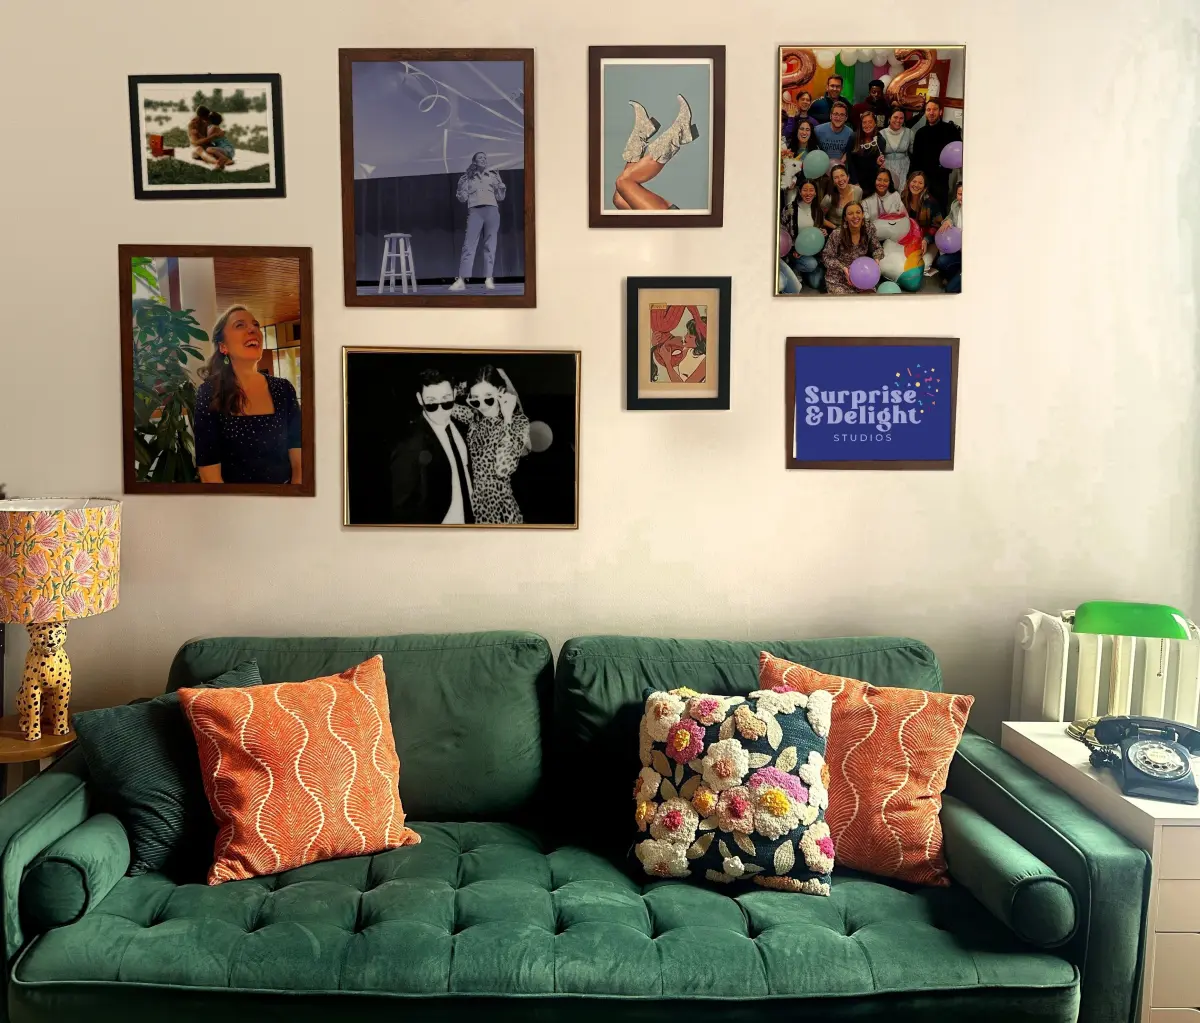
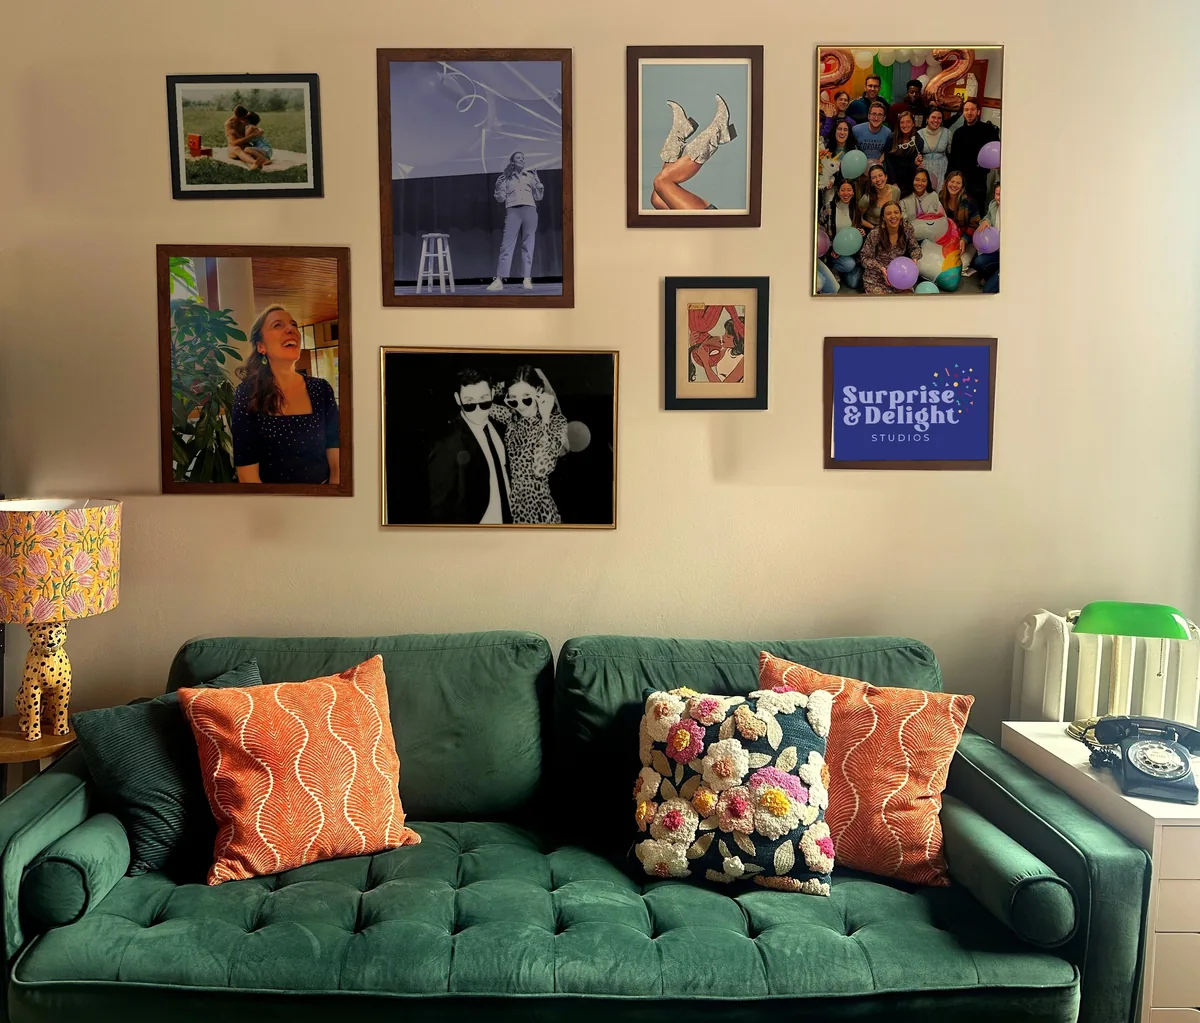
center gallery wall over couch, add link preview

diff --git a/index.html b/index.html
@@ -5,6 +5,16 @@
 <meta name="viewport" content="width=device-width, initial-scale=1">
 <title>Kristie Dickinson</title>
 <meta name="description" content="Kristie Dickinson: writer, teacher, and Experience Architect. Come on in.">
+<meta property="og:type" content="website">
+<meta property="og:url" content="https://www.kristiedickinson.com/">
+<meta property="og:site_name" content="Kristie Dickinson">
+<meta property="og:title" content="Kristie Dickinson">
+<meta property="og:description" content="Writer, teacher, and Experience Architect. Come on in.">
+<meta property="og:image" content="https://www.kristiedickinson.com/img/og-image.jpg">
+<meta property="og:image:width" content="1200">
+<meta property="og:image:height" content="630">
+<meta property="og:image:alt" content="Kristie Dickinson. Come on in. Beside a photo of her living room: a green couch under a gallery wall.">
+<meta name="twitter:card" content="summary_large_image">
 <link rel="preconnect" href="https://fonts.googleapis.com">
 <link href="https://fonts.googleapis.com/css2?family=Courier+Prime:wght@400;700&family=Lora:ital,wght@0,400;0,600;1,400&family=DM+Serif+Display&display=swap" rel="stylesheet">
 <style>
@@ -125,13 +135,13 @@
 <header><a class="name" href="./">Kristie Dickinson</a><nav class="top"><a href="about.html">About</a><a href="#" id="topHello">Say hello</a></nav></header>
 <div class="room loading" id="room">
   <img class="base" src="img/wall-2400.webp" srcset="img/wall-1200.webp 1200w, img/wall-2400.webp 2400w" sizes="(max-width:700px) 100vw, 1400px" fetchpriority="high" alt="Kristie's living room: a green velvet couch under a gallery wall of frames">
-  <div class="mat" style="clip-path:polygon(11.437% 8.131%,22.615% 8.030%,22.989% 18.421%,11.897% 18.657%);background:#ECE8E0"></div>
-  <div class="art" data-art="talk" style="clip-path:polygon(29.282% 6.005%,43.649% 5.938%,43.707% 28.880%,29.713% 28.880%);background:#222"><img alt="" src="img/art1.webp"></div>
-  <div class="art" data-art="about" style="clip-path:polygon(10.948% 25.101%,24.943% 25.169%,25.144% 47.301%,11.264% 47.132%);background:#222"><img alt="" src="img/art2.webp"></div>
-  <div class="art" data-art="studio" style="clip-path:polygon(28.937% 34.480%,47.960% 34.548%,47.902% 51.181%,28.994% 51.248%);background:#222"><img alt="" src="img/art3.webp"></div>
-  <div class="art" data-art="class" style="clip-path:polygon(65.201% 4.825%,80.259% 4.757%,80.086% 28.610%,64.914% 28.745%);background:#222"><img alt="" src="img/art4.webp"></div>
-  <div class="art" data-art="record" style="clip-path:polygon(11.954% 8.738%,22.098% 8.637%,22.471% 17.814%,12.414% 18.050%);background:#ECE8E0"><img alt="" src="img/art5.webp"></div>
-  <div class="art" data-art="substack" style="clip-path:polygon(66.006% 33.536%,79.511% 33.468%,79.454% 45.243%,66.092% 45.344%);background:#2B337B"><img alt="" src="img/art6.webp"></div>
+  <div class="mat" style="clip-path:polygon(14.598% 8.131%,25.776% 8.030%,26.150% 18.421%,15.058% 18.657%);background:#ECE8E0"></div>
+  <div class="art" data-art="talk" style="clip-path:polygon(32.443% 6.005%,46.810% 5.938%,46.868% 28.880%,32.874% 28.880%);background:#222"><img alt="" src="img/art1.webp"></div>
+  <div class="art" data-art="about" style="clip-path:polygon(14.109% 25.101%,28.104% 25.169%,28.305% 47.301%,14.425% 47.132%);background:#222"><img alt="" src="img/art2.webp"></div>
+  <div class="art" data-art="studio" style="clip-path:polygon(32.098% 34.480%,51.121% 34.548%,51.063% 51.181%,32.155% 51.248%);background:#222"><img alt="" src="img/art3.webp"></div>
+  <div class="art" data-art="class" style="clip-path:polygon(68.362% 4.825%,83.420% 4.757%,83.247% 28.610%,68.075% 28.745%);background:#222"><img alt="" src="img/art4.webp"></div>
+  <div class="art" data-art="record" style="clip-path:polygon(15.115% 8.738%,25.259% 8.637%,25.632% 17.814%,15.575% 18.050%);background:#ECE8E0"><img alt="" src="img/art5.webp"></div>
+  <div class="art" data-art="substack" style="clip-path:polygon(69.167% 33.536%,82.672% 33.468%,82.615% 45.243%,69.253% 45.344%);background:#2B337B"><img alt="" src="img/art6.webp"></div>
   <img class="glow l-cheetah" alt="" src="img/glow-l-cheetah.webp" style="left:0.0000%;top:4.4872%;width:63.2184%;height:73.8192%">
   <img class="lampimg l-cheetah" alt="" src="img/lampimg-l-cheetah.webp" style="left:0.0000%;top:47.9757%;width:10.2874%;height:14.0013%">
   <img class="glow l-banker" alt="" src="img/glow-l-banker.webp" style="left:68.7356%;top:45.2429%;width:31.2644%;height:54.7571%">
@@ -177,8 +187,8 @@
 <script src="essays-data.js"></script>
 <script>
 const W=3480,H=2964,room=document.getElementById('room'),svg=document.getElementById('hot'),NS='http://www.w3.org/2000/svg';
-const DEF={items:[{"key": "record", "l": 8.33, "t": 3.32, "w": 12.53, "r": -2, "kind": "label", "alt": "A surprise!", "mid": false, "hid": false, "fl": false}, {"key": "about", "l": 19.44, "t": 55.07, "w": 12.65, "r": -4, "kind": "label", "alt": "About me", "mid": true, "hid": false, "fl": false}, {"key": "class", "l": 90.6, "t": 15, "w": 15.2, "r": 3, "kind": "label", "alt": "Take my class", "mid": true, "hid": false, "fl": false}, {"key": "substack", "l": 73.08, "t": 49.39, "w": 17.2, "r": 1.4, "kind": "label", "alt": "My design studio", "mid": true, "hid": false, "fl": false}, {"key": "talk", "l": 43.23, "t": 30.48, "w": 14, "r": 1, "kind": "label", "alt": "Watch my talk", "mid": false, "hid": false, "fl": false}, {"key": "studio", "l": 39.36, "t": 56.92, "w": 19.42, "r": 1, "kind": "label", "alt": "Read my essays", "mid": false, "hid": false, "fl": false}, {"key": "sayhello", "l": 74.12, "t": 56.2, "w": 11.46, "r": -8.9, "kind": "free", "alt": "say hello", "hid": false, "fl": false}, {"key": "arrow", "l": 84.6, "t": 62.4, "w": 7.6, "r": -22, "kind": "free", "alt": "", "hid": true, "fl": false}, {"key": "classword", "l": 87.7, "t": 17.72, "w": 6.6, "r": 1.6, "kind": "free", "alt": "", "hid": true, "fl": false}, {"key": "cord", "l": 84.25, "t": 58.45, "w": 7, "r": 0, "kind": "free", "alt": "", "hid": false, "fl": false}, {"key": "arrow2", "l": 6.21, "t": 8.04, "w": 3.2, "r": 0, "kind": "free", "alt": "", "hid": false, "fl": false}, {"key": "arrow3", "l": 42.5, "t": 52.1, "w": 3.2, "r": 0, "kind": "free", "alt": "", "hid": false, "fl": false}, {"key": "arrow4", "l": 62.33, "t": 44.12, "w": 2.62, "r": -197.1, "kind": "free", "alt": "", "hid": false, "fl": false}, {"key": "arrow5", "l": 11.23, "t": 49.36, "w": 3.2, "r": 0, "kind": "free", "alt": "", "hid": false, "fl": false}, {"key": "arrow6", "l": 81.95, "t": 18.65, "w": 3.2, "r": 0, "kind": "free", "alt": "", "hid": false, "fl": false}, {"key": "arrow7", "l": 51, "t": 60.5, "w": 3.2, "r": 0, "kind": "free", "alt": "", "hid": true, "fl": false}, {"key": "arrow8", "l": 55.2, "t": 60.5, "w": 3.2, "r": 0, "kind": "free", "alt": "", "hid": true, "fl": false}, {"key": "arrow9", "l": 59.4, "t": 60.5, "w": 3.2, "r": 0, "kind": "free", "alt": "", "hid": true, "fl": false}, {"key": "arrow10", "l": 63.6, "t": 60.5, "w": 3.2, "r": 0, "kind": "free", "alt": "", "hid": true, "fl": false}, {"key": "arrow11", "l": 44.79, "t": 24.37, "w": 3.2, "r": 180, "kind": "free", "alt": "", "hid": false, "fl": false}],arts:[{"key": "talk", "iw": 809, "ih": 1100, "fx": 0.5, "fy": 0.45, "z": 1.505, "x": -49, "y": -172, "poly": [[1019, 178], [1519, 176], [1521, 856], [1034, 856]], "bb": [1019, 176, 1521, 856], "bg": "#222"}, {"key": "about", "iw": 768, "ih": 1024, "fx": 0.5, "fy": 0.3, "z": 1, "x": 0, "y": 7, "poly": [[381, 744], [868, 746], [875, 1402], [392, 1397]], "bb": [381, 744, 875, 1402], "bg": "#222"}, {"key": "studio", "iw": 415, "ih": 545, "fx": 0.5, "fy": 0.55, "z": 1.212, "x": -12, "y": -34, "poly": [[1007, 1022], [1669, 1024], [1667, 1517], [1009, 1519]], "bb": [1007, 1022, 1669, 1519], "bg": "#222"}, {"key": "class", "iw": 825, "ih": 1100, "fx": 0.5, "fy": 0.5, "z": 1.403, "x": 57, "y": 22, "poly": [[2269, 143], [2793, 141], [2787, 848], [2259, 852]], "bb": [2259, 141, 2793, 852], "bg": "#222"}, {"key": "record", "iw": 1300, "ih": 1274, "fx": 0.53, "fy": 0.58, "z": 1.75, "x": 14, "y": -10, "poly": [[416, 259], [769, 256], [782, 528], [432, 535]], "bb": [416, 256, 782, 535], "bg": "#ECE8E0"}, {"key": "substack", "iw": 1300, "ih": 1300, "fx": 0.55, "fy": 0.47, "z": 0.989, "x": -8, "y": -15, "poly": [[2297, 994], [2767, 992], [2765, 1341], [2300, 1344]], "bb": [2297, 992, 2767, 1344], "bg": "#2B337B"}],cord:{"a": [2912, 1774], "c": [2897, 2031], "b": [3078, 2211]}};
-const KEY='kd-wall-v8';
+const DEF={items:[{"key": "record", "l": 11.49, "t": 3.32, "w": 12.53, "r": -2, "kind": "label", "alt": "A surprise!", "mid": false, "hid": false, "fl": false}, {"key": "about", "l": 22.6, "t": 55.07, "w": 12.65, "r": -4, "kind": "label", "alt": "About me", "mid": true, "hid": false, "fl": false}, {"key": "class", "l": 92.2, "t": 15, "w": 15.2, "r": 3, "kind": "label", "alt": "Take my class", "mid": true, "hid": false, "fl": false}, {"key": "substack", "l": 76.24, "t": 49.39, "w": 17.2, "r": 1.4, "kind": "label", "alt": "My design studio", "mid": true, "hid": false, "fl": false}, {"key": "talk", "l": 46.39, "t": 30.48, "w": 14, "r": 1, "kind": "label", "alt": "Watch my talk", "mid": false, "hid": false, "fl": false}, {"key": "studio", "l": 42.52, "t": 56.92, "w": 19.42, "r": 1, "kind": "label", "alt": "Read my essays", "mid": false, "hid": false, "fl": false}, {"key": "sayhello", "l": 74.12, "t": 56.2, "w": 11.46, "r": -8.9, "kind": "free", "alt": "say hello", "hid": false, "fl": false}, {"key": "arrow", "l": 84.6, "t": 62.4, "w": 7.6, "r": -22, "kind": "free", "alt": "", "hid": true, "fl": false}, {"key": "classword", "l": 87.7, "t": 17.72, "w": 6.6, "r": 1.6, "kind": "free", "alt": "", "hid": true, "fl": false}, {"key": "cord", "l": 84.25, "t": 58.45, "w": 7, "r": 0, "kind": "free", "alt": "", "hid": false, "fl": false}, {"key": "arrow2", "l": 9.37, "t": 8.04, "w": 3.2, "r": 0, "kind": "free", "alt": "", "hid": false, "fl": false}, {"key": "arrow3", "l": 45.66, "t": 52.1, "w": 3.2, "r": 0, "kind": "free", "alt": "", "hid": false, "fl": false}, {"key": "arrow4", "l": 65.49, "t": 44.12, "w": 2.62, "r": -197.1, "kind": "free", "alt": "", "hid": false, "fl": false}, {"key": "arrow5", "l": 14.39, "t": 49.36, "w": 3.2, "r": 0, "kind": "free", "alt": "", "hid": false, "fl": false}, {"key": "arrow6", "l": 84.35, "t": 18.65, "w": 3.2, "r": 0, "kind": "free", "alt": "", "hid": false, "fl": false}, {"key": "arrow7", "l": 51, "t": 60.5, "w": 3.2, "r": 0, "kind": "free", "alt": "", "hid": true, "fl": false}, {"key": "arrow8", "l": 55.2, "t": 60.5, "w": 3.2, "r": 0, "kind": "free", "alt": "", "hid": true, "fl": false}, {"key": "arrow9", "l": 59.4, "t": 60.5, "w": 3.2, "r": 0, "kind": "free", "alt": "", "hid": true, "fl": false}, {"key": "arrow10", "l": 63.6, "t": 60.5, "w": 3.2, "r": 0, "kind": "free", "alt": "", "hid": true, "fl": false}, {"key": "arrow11", "l": 47.95, "t": 24.37, "w": 3.2, "r": 180, "kind": "free", "alt": "", "hid": false, "fl": false}],arts:[{"key": "talk", "iw": 809, "ih": 1100, "fx": 0.5, "fy": 0.45, "z": 1.505, "x": -49, "y": -172, "poly": [[1129, 178], [1629, 176], [1631, 856], [1144, 856]], "bb": [1129, 176, 1631, 856], "bg": "#222"}, {"key": "about", "iw": 768, "ih": 1024, "fx": 0.5, "fy": 0.3, "z": 1, "x": 0, "y": 7, "poly": [[491, 744], [978, 746], [985, 1402], [502, 1397]], "bb": [491, 744, 985, 1402], "bg": "#222"}, {"key": "studio", "iw": 415, "ih": 545, "fx": 0.5, "fy": 0.55, "z": 1.212, "x": -12, "y": -34, "poly": [[1117, 1022], [1779, 1024], [1777, 1517], [1119, 1519]], "bb": [1117, 1022, 1779, 1519], "bg": "#222"}, {"key": "class", "iw": 825, "ih": 1100, "fx": 0.5, "fy": 0.5, "z": 1.403, "x": 57, "y": 22, "poly": [[2379, 143], [2903, 141], [2897, 848], [2369, 852]], "bb": [2369, 141, 2903, 852], "bg": "#222"}, {"key": "record", "iw": 1300, "ih": 1274, "fx": 0.53, "fy": 0.58, "z": 1.75, "x": 14, "y": -10, "poly": [[526, 259], [879, 256], [892, 528], [542, 535]], "bb": [526, 256, 892, 535], "bg": "#ECE8E0"}, {"key": "substack", "iw": 1300, "ih": 1300, "fx": 0.55, "fy": 0.47, "z": 0.989, "x": -8, "y": -15, "poly": [[2407, 994], [2877, 992], [2875, 1341], [2410, 1344]], "bb": [2407, 992, 2877, 1344], "bg": "#2B337B"}],cord:{"a": [2912, 1774], "c": [2897, 2031], "b": [3078, 2211]}};
+const KEY='kd-wall-v9';
 let st={}; try{st=JSON.parse(localStorage.getItem(KEY)||'{}')}catch(e){}
 st.items=st.items||{}; st.arts=st.arts||{};
 // preview-only overrides: ?opt=A|B|C (say hello corner), ?lab=cursive|caps (class label). Not saved.
@@ -217,7 +227,7 @@ dlg.addEventListener('close',()=>{ dx.innerHTML=''; });                      // 
 function hotspot(pts,label,cls,fn){const a=document.createElementNS(NS,'a');a.setAttribute('href','#');a.setAttribute('aria-label',label);if(cls)a.setAttribute('class',cls);
   const p=document.createElementNS(NS,'polygon');p.setAttribute('points',pts.map(p=>p.join(',')).join(' '));a.appendChild(p);svg.appendChild(a);
   a.addEventListener('click',e=>{e.preventDefault();fn();});return a;}
-[{"k": "record", "label": "A surprise!", "q": [[342, 185], [843, 182], [856, 602], [358, 609]]}, {"k": "talk", "label": "Watch my talk", "q": [[985, 144], [1553, 142], [1555, 890], [1000, 890]]}, {"k": "about", "label": "About me", "q": [[352, 715], [897, 717], [904, 1431], [363, 1426]]}, {"k": "studio", "label": "Read my essays", "q": [[993, 1008], [1683, 1010], [1681, 1531], [995, 1533]]}, {"k": "class", "label": "Take my class", "q": [[2257, 131], [2805, 129], [2799, 860], [2247, 864]]}, {"k": "substack", "label": "My design studio", "q": [[2281, 978], [2783, 976], [2781, 1357], [2284, 1360]]}].forEach(f=>{const LINK={substack:'https://www.surpriseanddelightstudios.com'};
+[{"k": "record", "label": "A surprise!", "q": [[452, 185], [953, 182], [966, 602], [468, 609]]}, {"k": "talk", "label": "Watch my talk", "q": [[1095, 144], [1663, 142], [1665, 890], [1110, 890]]}, {"k": "about", "label": "About me", "q": [[462, 715], [1007, 717], [1014, 1431], [473, 1426]]}, {"k": "studio", "label": "Read my essays", "q": [[1103, 1008], [1793, 1010], [1791, 1531], [1105, 1533]]}, {"k": "class", "label": "Take my class", "q": [[2367, 131], [2915, 129], [2909, 860], [2357, 864]]}, {"k": "substack", "label": "My design studio", "q": [[2391, 978], [2893, 976], [2891, 1357], [2394, 1360]]}].forEach(f=>{const LINK={substack:'https://www.surpriseanddelightstudios.com'};
   const a=hotspot(f.q,f.label,'frame',()=>f.k==='about'?(location.href='about.html'):f.k==='studio'?openEssays():LINK[f.k]?window.open(LINK[f.k],'_blank','noopener'):open_(f.k==='class'?'Take my Design Thinking class':f.label,null,f.k));
   const el=room.querySelector('[data-key="'+f.k+'"]'); a.addEventListener('mouseenter',()=>el&&el.classList.add('on')); a.addEventListener('mouseleave',()=>el&&el.classList.remove('on'));});
 const hot={"cheetah": [[0, 1440], [352, 1440], [352, 2140], [0, 2140]], "banker": [[3085, 1720], [3480, 1720], [3480, 1875], [3085, 1875]]};
@@ -227,8 +237,8 @@ if(QS.get('opt')==='D') hotspot([[2790,2040],[3120,2040],[3120,2240],[2790,2240]
 const ART={boots:{t:'',p:"A real print from my living room! My mom got me these sparkly boots and now they're the only thing I wear onstage at shows.",by:'Print by Vertigo Artography'},
   kiss:{t:'',p:"My favorite TV kiss, re-mixed by a brilliant artist (Does this make you think of The OC or Spider-Man?)",by:'Print by Jenifer Prince'}};
 function openArt(k){const a=ART[k];document.getElementById('dt').textContent=a.t;document.getElementById('dp').textContent=a.p;dx.innerHTML='<p class="by">'+a.by+'</p>';dlg.classList.remove('wide','essays');dlg.showModal();}
-hotspot([[1700,150],[2100,150],[2100,660],[1700,660]],'A print I love','frame',()=>openArt('boots'));
-hotspot([[1800,800],[2110,800],[2110,1170],[1800,1170]],'A print I love','frame',()=>openArt('kiss'));
+hotspot([[1810,150],[2210,150],[2210,660],[1810,660]],'A print I love','frame',()=>openArt('boots'));
+hotspot([[1910,800],[2220,800],[2220,1170],[1910,1170]],'A print I love','frame',()=>openArt('kiss'));
 document.getElementById('topHello').addEventListener('click',e=>{e.preventDefault();open_('Say hello',null,'hello');});
 // essays pop-up: 3 favorites with photos, read right here (text copied from Substack into essays-data.js)
 const ES_TOP=[{k:'wedding',img:'img/essays/wedding.jpg'},{k:'italy',img:'img/essays/italy.jpg'},{k:'callme',img:'img/essays/callme.jpg'}];
